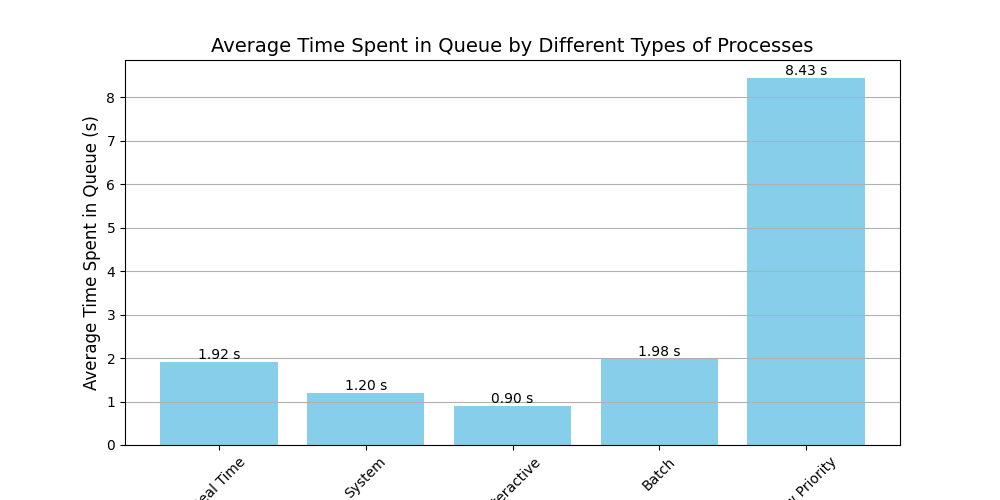
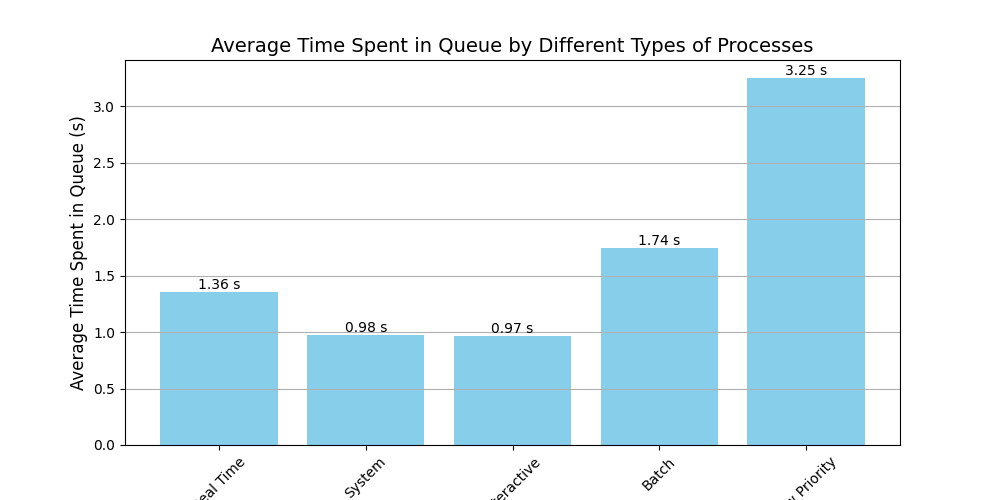
Added a static simulation of processes in the MLQS system.

Changed region(s): [[0.062, 0.18, 0.899, 0.81], [0.775, 0.12, 0.837, 0.15], [0.093, 0.87, 0.124, 0.9]]

diff --git a/app.py b/app.py
@@ -7,43 +7,100 @@ from plots import plot_results, plot_average_wait_time
 
 # pip install -r requirements.txt
 
-async def run_simulation(num_cpus, total_processes, processes_per_second, speedup_simulation, burst_time):
+async def run_simulation_dynamic(num_cpus, total_processes, processes_per_second, speedup_simulation, burst_time):
     """
-    Runs the simulation and returns the results.
+    Run a dynamic simulation of the multi-level queue scheduler.
+
+    Args:
+        num_cpus (int): Number of CPUs available for the scheduler.
+        total_processes (int): Total number of processes to be added dynamically.
+        processes_per_second (int): Rate at which processes are added per second.
+        speedup_simulation (int): Factor to speed up the simulation.
+        burst_time (int): Default burst time for each process.
+
+    Returns:
+        tuple: Contains cpu_usage_data, queue_fill_data, and average_wait_times.
     """
     scheduler = MultiLevelQueueScheduler(num_cpus, total_processes, speedup_simulation, burst_time)
-
-    # Add processes in the background
-    #await add_processes(scheduler, total_processes, processes_per_second)
     asyncio.create_task(add_processes(scheduler, total_processes, processes_per_second, burst_time))
-
-    # Run the scheduler and get results
     cpu_usage_data, queue_fill_data, average_wait_times = await scheduler.run_scheduler()
-
     return cpu_usage_data, queue_fill_data, average_wait_times
 
+
+async def run_simulation_static(num_cpus, speedup_simulation, process_settings):
+    """
+    Run a static simulation of the multi-level queue scheduler.
+
+    Args:
+        num_cpus (int): Number of CPUs available for the scheduler.
+        speedup_simulation (int): Factor to speed up the simulation.
+        process_settings (dict): Dictionary containing process counts and burst times for each queue type.
+
+    Returns:
+        tuple: Contains cpu_usage_data, queue_fill_data, and average_wait_times.
+    """
+    scheduler = MultiLevelQueueScheduler(num_cpus, sum(settings["count"] for settings in process_settings.values()), speedup_simulation)
+
+    # Add processes based on static settings for each priority queue
+    for priority, settings in process_settings.items():
+        for i in range(settings["count"]):
+            process_name = f"{priority}_Process_{i + 1}"
+            await scheduler.schedule_process(priority, process_name, settings["burst_time"])
+
+    cpu_usage_data, queue_fill_data, average_wait_times = await scheduler.run_scheduler()
+    return cpu_usage_data, queue_fill_data, average_wait_times
+
+
 def main():
+    """
+    Streamlit main function for the multi-level queue scheduler simulation.
+    Initializes the simulation parameters based on user input and runs the simulation.
+
+    The interface displays the mode selection for adding processes (Dynamic or Static),
+    common settings (number of CPUs, speedup factor), and displays fields based on the selected mode.
+    Finally, it displays the simulation results as plots.
+    """
     st.title("Multi-Level Queue Scheduler Simulation")
 
-    # Input parameters from user
-    num_cpus = st.number_input("Number of CPUs", min_value=1, max_value=8, value=4)
-    total_processes = st.number_input("Total Processes", min_value=1, max_value=300, value=44)
-    processes_per_second = st.number_input("Processes Per Second", min_value=1, max_value=50, value=10)
+    # Process addition mode selection
+    mode = st.radio("Select Process Adding Mode:", ("Dynamic", "Static"))
+
+    num_cpus = st.number_input("Number of CPUs", min_value=1, max_value=4, value=2)
     speedup_simulation = st.number_input("Speedup Simulation Factor", min_value=1, max_value=100, value=20)
-    burst_time = st.number_input("Burst Time", min_value=1, max_value=10, value=3)
+
+    if mode == "Dynamic":
+        total_processes = st.number_input("Total Processes", min_value=1, max_value=300, value=44)
+        processes_per_second = st.number_input("Processes Per Second", min_value=1, max_value=50, value=10)
+        burst_time = st.number_input("Burst Time", min_value=1, max_value=10, value=3)
+
+    elif mode == "Static":
+        process_settings = {}
+        total_processes = 0  # Set total_processes to zero as it's calculated dynamically in static mode
+
+        for priority in ["Real Time", "System", "Interactive", "Batch", "Low Priority"]:
+            with st.expander(f"{priority} Queue Settings"):
+                process_count = st.number_input(f"Number of {priority} Processes", min_value=0, max_value=100, value=5)
+                burst_time = st.number_input(f"Burst Time for {priority} Processes", min_value=1, max_value=10, value=3)
+                process_settings[priority] = {"count": process_count, "burst_time": burst_time}
+                total_processes += process_count  # Summing the total number of processes
 
     if st.button("Run Simulation"):
         with st.spinner("Running simulation..."):
-            # Run the simulation and get results
-            cpu_usage_data, queue_fill_data, average_wait_times = asyncio.run(run_simulation(
-                num_cpus, total_processes, processes_per_second, speedup_simulation, burst_time
-            ))
+            if mode == "Dynamic":
+                # Run dynamic process addition simulation
+                cpu_usage_data, queue_fill_data, average_wait_times = asyncio.run(run_simulation_dynamic(
+                    num_cpus, total_processes, processes_per_second, speedup_simulation, burst_time
+                ))
+            else:
+                # Run static process addition simulation
+                cpu_usage_data, queue_fill_data, average_wait_times = asyncio.run(run_simulation_static(
+                    num_cpus, speedup_simulation, process_settings
+                ))
 
-            # Analyze results and plot
+            # Display results and plots
             if cpu_usage_data and queue_fill_data:
                 plot_results(cpu_usage_data, queue_fill_data)
                 plot_average_wait_time(average_wait_times)
                 
-# Run the Streamlit app
 if __name__ == "__main__":
     main()
